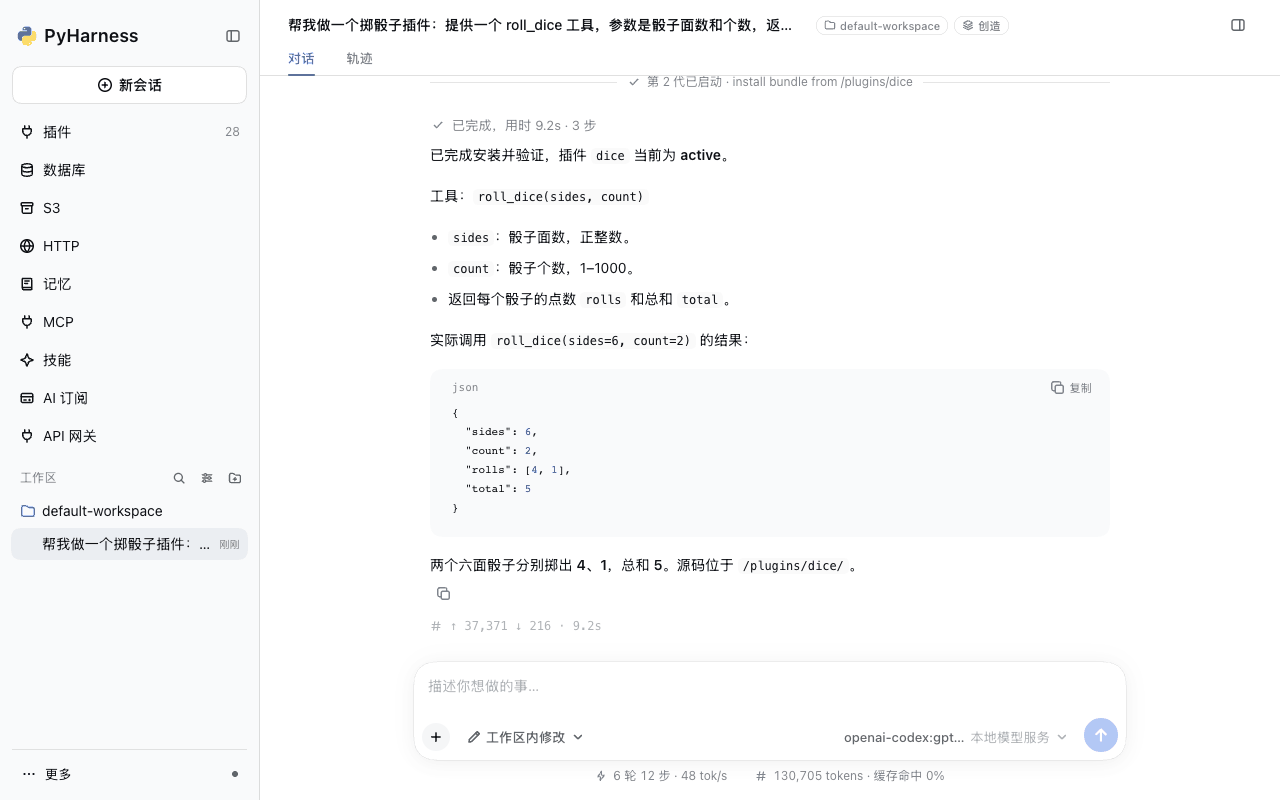
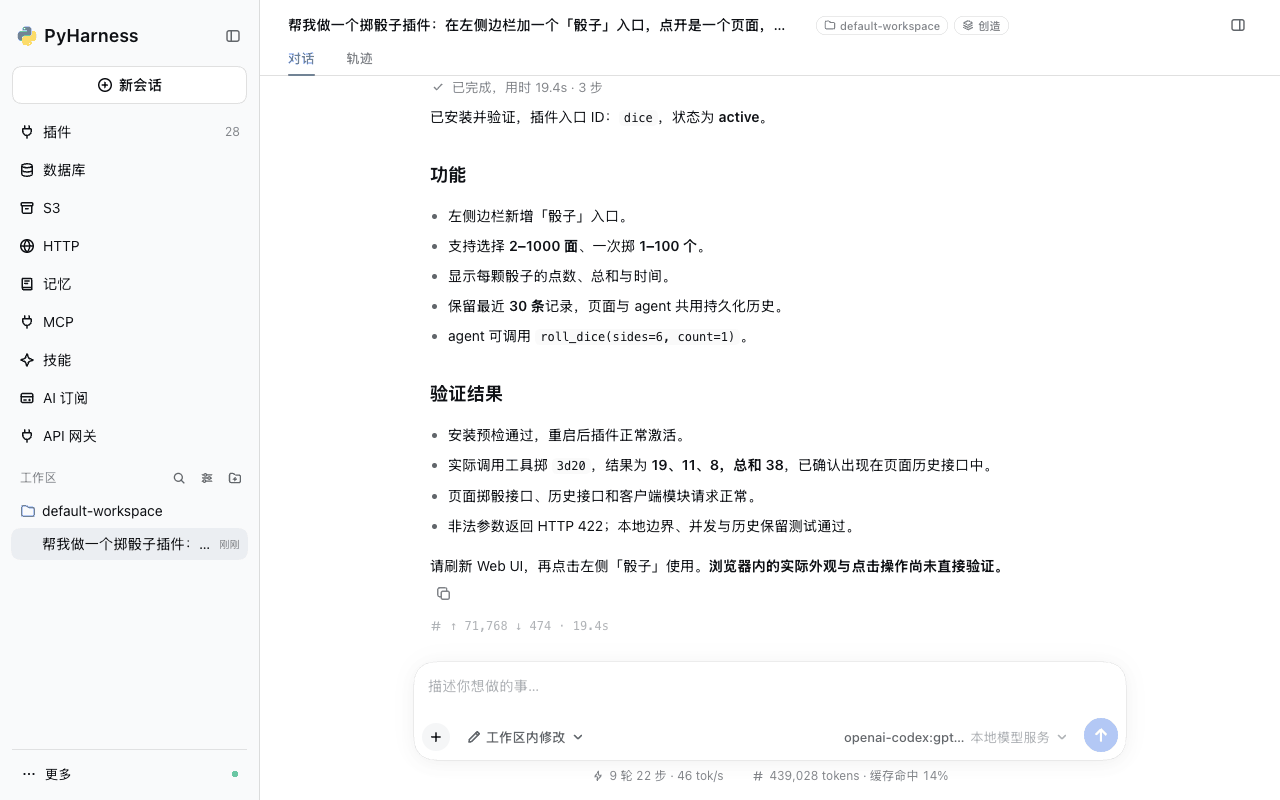
Show a sidebar plugin in the quick start, in full-page screenshots
The journey now builds a plugin with a sidebar page and a tool, the
screenshots are whole 1280x800 pages, and the manual ends at section 8.

diff --git a/manual/quick-start.md b/manual/quick-start.md
@@ -2,7 +2,7 @@
 
 | 项 | 内容 |
 |---|---|
-| 结果 | pyharness 运行起来；agent 写出并安装一个插件，提供 `roll_dice` 工具 |
+| 结果 | pyharness 运行起来；agent 写出并安装一个插件：左侧边栏的「骰子」页面，加一个 `roll_dice` 工具 |
 | 用时 | 约 10 分钟 |
 | 前置 | Python 3.12、uv、一个模型 API（OpenAI、Anthropic、DeepSeek、Gemini、OpenRouter，或 OpenAI / Anthropic 兼容端点） |
 
@@ -15,7 +15,7 @@
 | [5. 审批安装](#5-审批安装) | 会话 |
 | [6. 重启与验证](#6-重启与验证) | 会话 |
 | [7. 查看与管理](#7-查看与管理) | 插件页 |
-| [8. 使用](#8-使用) | 新会话 |
+| [8. 使用](#8-使用) | 侧边栏 |
 
 ## 1. 安装与启动
 
@@ -67,11 +67,11 @@ uv run pyh run
 
 ## 4. 描述插件
 
-写清四件事：工具名、参数、返回值、怎么验证。
+写清三件事：界面放在哪、能做什么、怎么验证。
 
 ```text
-帮我做一个掷骰子插件：提供一个 roll_dice 工具，参数是骰子面数和个数，
-返回每个骰子的点数与总和。装好后用它掷两个六面骰子验证一下。
+帮我做一个掷骰子插件：在左侧边栏加一个「骰子」入口，点开是一个页面，可以选骰子面数和个数，
+点按钮掷骰子，并列出最近的结果；同时提供一个 roll_dice 工具，让 agent 也能掷。装好后验证一下。
 ```
 
 ![输入需求](images/04-request.png)
@@ -80,7 +80,7 @@ uv run pyh run
 
 | agent 的步骤 | 需要审批 |
 |---|---|
-| 读插件编写技能，取模板 | 否 |
+| 读插件编写技能，取带界面的模板 | 否 |
 | 把插件写到 `/plugins/dice/` | 否 |
 | 用 shell 检查模块能否导入 | 是：每条 shell 命令 |
 | 安装插件 | 是 |
@@ -98,84 +98,32 @@ uv run pyh run
 
 ## 6. 重启与验证
 
-重启由 pyharness 自己完成，页面不用刷新。会话在新一代进程里继续，agent 调用新工具验证：
+重启由 pyharness 自己完成。对话里出现「第 2 代已启动」的分隔行，会话在新一代进程里继续，agent 调用新工具、请求页面的接口来验证，最后给出结果：
 
-![重启后的验证](images/06-verified.png)
+![验证结果](images/06-verified.png)
 
-| 界面上的标记 | 含义 |
-|---|---|
-| 「第 2 代已启动 · install bundle from /plugins/dice」 | 新进程已接管，原因是这次安装 |
-| 侧边栏「插件」的数字加一 | 新条目已加载 |
+验证中的 shell 命令同样逐条审批。
 
 ## 7. 查看与管理
 
-侧边栏「插件」：
+刷新页面。侧边栏「插件」里多了 `dice`：
 
 ![插件页](images/07-plugins.png)
 
 | 操作 | 位置 | 生效 |
 |---|---|---|
 | 停用、启用 | `dice` 行的开关 | 预检后重启 |
-| 卸载 | `dice` 行的删除按钮 | 预检后重启；源码保留 |
+| 卸载 | `dice` 行的删除按钮 | 预检后重启；源码保留在 `~/Documents/pyharness/web/plugins/dice/` |
 
 ## 8. 使用
 
-新工具对所有会话可用，包括「标准」预设。点开回复上方的步骤行可以看到工具调用：
+侧边栏的「骰子」：
 
-![在标准会话里使用](images/08-use.png)
+![骰子页面](images/08-use.png)
 
-## 插件的源码
-
-```text
-~/Documents/pyharness/web/plugins/dice/
-  AGENTS.md              设计说明
-  pyproject.toml         发行包与 entry point
-  pyh_dice/__init__.py   导入
-  pyh_dice/plugin.py     插件：roll_dice 工具
-  pyh_dice/bundle.py     bundle.yaml 的路径
-  pyh_dice/bundle.yaml   挂载位置
-```
-
-这次生成的 `plugin.py`（agent 每次写出的代码会有差异）：
-
-```python
-class DiceInput(BaseModel):
-    sides: Annotated[int, Field(strict=True, ge=1, description="Number of faces per die; a positive integer.")]
-    count: Annotated[int, Field(strict=True, ge=1, le=1000, description="Number of dice to roll, from 1 to 1000.")]
-
-
-@tool(args_schema=DiceInput)
-def roll_dice(sides: int, count: int) -> dict[str, Any]:
-    """Roll dice independently and return each die's result and their total."""
-    rolls = [secrets.randbelow(sides) + 1 for _ in range(count)]
-    return {"sides": sides, "count": count, "rolls": rolls, "total": sum(rolls)}
-
-
-def apply(ctx: Any, config: Config) -> None:
-    ctx.tools.register(roll_dice)
-```
-
-| 要做的事 | 做法 |
+| 用法 | 入口 |
 |---|---|
-| 修改插件 | 在「创造」会话里提出修改；agent 改 `/plugins/dice/` 后重新安装，再走一次审批与重启 |
-| 手工修改 | 编辑上面目录里的文件，然后在「创造」会话里让 agent 重新安装 `/plugins/dice` |
+| 自己掷 | 页面：填面数与个数，「掷骰子」 |
+| 让 agent 掷 | 任意会话里提出，包括「标准」预设；agent 调用 `roll_dice` |
 
-`/plugins/` 在每个「创造」会话里都是这同一个目录，与会话选的工作区无关。
-
-## 常见情况
-
-| 现象 | 原因与处理 |
-|---|---|
-| 回复只是复述输入 | 模型还是 `echo`：第 2 步 |
-| agent 说没有插件管理工具 | 会话是「标准」预设：新建会话，选「创造」 |
-| 安装结果是 rejected | 预检没通过，profile 没有变化；错误已返回给 agent，它会修正后重装 |
-| 重启后新一代启动失败 | pyharness 恢复上一份可用配置并再次启动；会话里有回滚提示 |
-| 端口被占用 | `PYH_PORT=8770 uv run pyh run` |
-
-## 延伸
-
-| 主题 | 文档 |
-|---|---|
-| 自扩展的机制、审批与边界 | [docs/self-extension.md](../docs/self-extension.md) |
-| 插件的形式与扩展点 | [docs/plugins.md](../docs/plugins.md) |
-| 预检、重启、回滚 | [docs/lifecycle.md](../docs/lifecycle.md) |
+两种用法的结果都进入页面的「最近结果」，末尾标明来源：页面或 Agent。

diff --git a/AGENTS.md b/AGENTS.md
@@ -38,7 +38,7 @@ PYH_TEST_POSTGRES_DSN=postgresql://user@127.0.0.1:5432/pyh_test uv run pytest -q
 | `tests/` | 测试 |
 | `tests/testkit` | 测试用插件 |
 | `docs/` | 设计文档 |
-| `manual/` | 用户手册；`images/`：界面截图，1280 px 宽，8 位调色板 PNG |
+| `manual/` | 用户手册；`images/`：界面的整页截图，1280×800，8 位调色板 PNG |
 | `.github/workflows/ci.yml` | CI，Python 3.12：全量测试；Postgres 测试 |
 
 ## 代码、文档、注释统一风格要求
